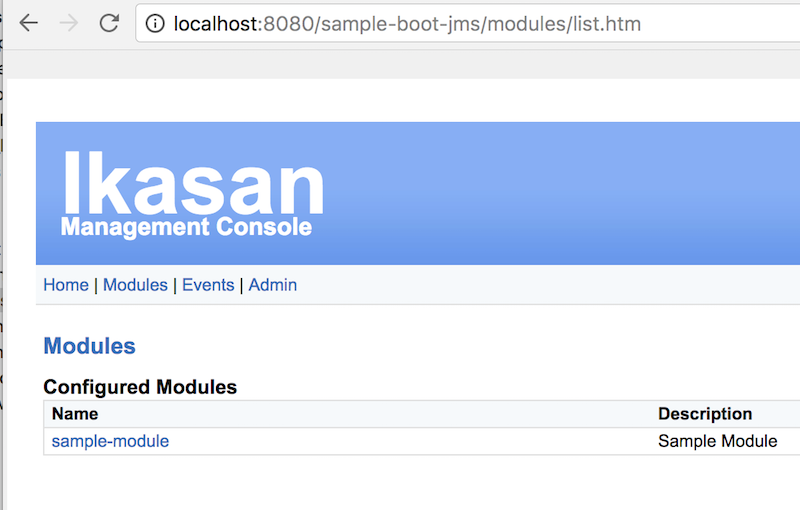
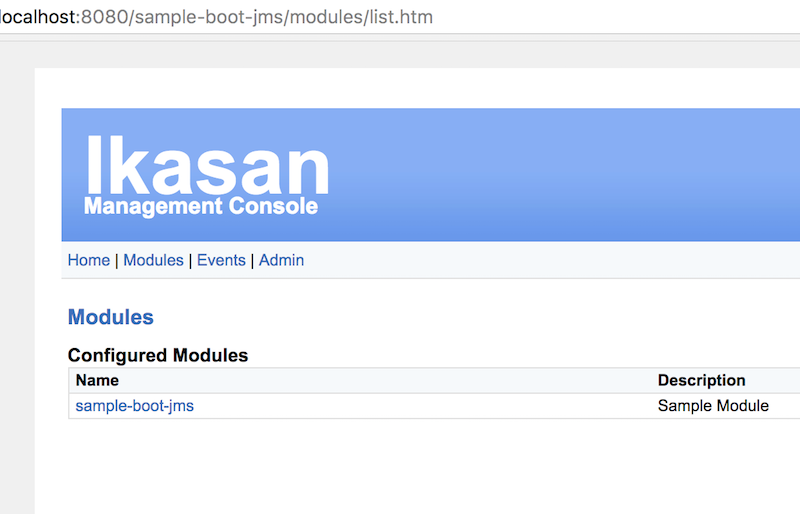
Adjusting jms sample  and Readme.md

Changed region(s): [[0.0, 0.0, 1.0, 1.0], [0.0625, 0.8529, 0.2188, 0.8824]]

diff --git a/ikasaneip/sample/spring-boot/jms/src/main/java/org/ikasan/sample/spring/boot/builderpattern/ModuleConfig.java b/ikasaneip/sample/spring-boot/jms/src/main/java/org/ikasan/sample/spring/boot/builderpattern/ModuleConfig.java
@@ -4,10 +4,8 @@ import org.apache.activemq.ActiveMQXAConnectionFactory;
 import org.ikasan.builder.BuilderFactory;
 import org.ikasan.builder.FlowBuilder;
 import org.ikasan.builder.ModuleBuilder;
-import org.ikasan.component.endpoint.jms.spring.consumer.JmsContainerConsumer;
-import org.ikasan.component.endpoint.jms.spring.producer.JmsTemplateProducer;
-import org.ikasan.error.reporting.service.ErrorReportingServiceFactoryDefaultImpl;
 import org.ikasan.spec.component.endpoint.Consumer;
+import org.ikasan.spec.component.endpoint.Producer;
 import org.ikasan.spec.error.reporting.ErrorReportingServiceFactory;
 import org.ikasan.spec.flow.Flow;
 import org.ikasan.spec.module.Module;
@@ -27,17 +25,9 @@ import javax.jms.ConnectionFactory;
         "classpath:ikasan-transaction-pointcut-jms.xml",
         "classpath:logger-conf.xml",
         "classpath:exception-conf.xml",
-        "classpath:jms-conf.xml",
-
-
 } )
 public class ModuleConfig {
 
-    @Resource
-    private JmsContainerConsumer jmsConsumer;
-
-    @Resource
-    private JmsTemplateProducer jmsProducer;
 
     @Resource
     private BuilderFactory builderFactory;
@@ -48,54 +38,34 @@ public class ModuleConfig {
     @Value("${jms.provider.url}")
     private String brokerUrl;
 
-
-    /**
-     *
-     *
-     * <bean id="sourceFlow"                   class="org.ikasan.builder.FlowFactory">
-     <property name="moduleName"         ref="moduleName" />
-     <property name="name"               value="JMS Source" />
-     <property name="description"        value="JMS Source Description" />
-     <property name="exceptionResolver"  ref="exceptionResolver" />
-     <property name="ikasanSerialiserFactory" ref="ikasanSerialiserFactory" />
-     <property name="consumer">
-     <bean class="org.ikasan.builder.FlowElementFactory">
-     <property name="name"       value="JMS Consumer"/>
-     <property name="component"  ref="jmsConsumer"/>
-     <property name="transition" ref="jmsProducerFlowElement"/>
-     </bean>
-     </property>
-     <property name="monitor" ref="monitor"/>
-     </bean>
-
-     <bean id="jmsProducerFlowElement" class="org.ikasan.builder.FlowElementFactory">
-     <property name="name"               value="JMS Producer"/>
-     <property name="component"          ref="jmsProducer" />
-     </bean>
-
-
-     * @return
-     */
     @Bean
     public Module getModule(){
 
-        ModuleBuilder mb = builderFactory.getModuleBuilder("sample-module");
+        ModuleBuilder mb = builderFactory.getModuleBuilder("sample-boot-jms");
 
-        FlowBuilder fb = mb.getFlowBuilder("flowName");
+        FlowBuilder fb = mb.getFlowBuilder("Jms Sample Flow");
 
         ConnectionFactory connectionFactory = new ActiveMQXAConnectionFactory(brokerUrl);
-        Consumer localJmsConsumer = builderFactory.getComponentBuilder().jmsConsumer()
+        Consumer jmsConsumer = builderFactory.getComponentBuilder().jmsConsumer()
                 .setConnectionFactory(connectionFactory)
                 .setDestinationJndiName("source")
                 .setAutoContentConversion(true)
+                .setConfiguredResourceId("jmsConsumer")
+                .build();
+
+
+        Producer jmsProducer = builderFactory.getComponentBuilder().jmsProducer()
+                .setConnectionFactory(connectionFactory)
+                .setDestinationJndiName("target")
+                .setConfiguredResourceId("jmsProducer")
                 .build();
 
         Flow flow = fb
-                .withDescription("flowDescription")
+                .withDescription("Flow demonstrates usage of JMS Concumer and JMS Producer")
                 .withErrorReportingServiceFactory(errorReportingServiceFactory)
-                .consumer("consumer", localJmsConsumer)     // jmsConsumer
-                .broker( "exception generating broker", new ExceptionGenerationgBroker())
-                .producer("producer", jmsProducer)
+                .consumer("JMS Consumer", jmsConsumer)
+                .broker( "Exception Generating Broker", new ExceptionGenerationgBroker())
+                .producer("JMS Producer", jmsProducer)
                 .build();
 
         Module module = mb.withDescription("Sample Module").addFlow(flow).build();

diff --git a/ikasaneip/sample/spring-boot/jms/src/test/java/org/ikasan/sample/spring/boot/builderpattern/ApplicationTest.java b/ikasaneip/sample/spring-boot/jms/src/test/java/org/ikasan/sample/spring/boot/builderpattern/ApplicationTest.java
@@ -62,6 +62,7 @@ import org.junit.Test;
 import org.junit.runner.RunWith;
 import org.springframework.jms.core.JmsTemplate;
 import org.springframework.test.annotation.DirtiesContext;
+import org.springframework.test.context.ContextConfiguration;
 import org.springframework.test.context.junit4.SpringRunner;
 import org.springframework.util.SocketUtils;
 
@@ -116,7 +117,7 @@ public class ApplicationTest
 
         // / you cannot lookup flow directly from context as only Module is injected through @Bean
         Module module = ikasanApplication.getBean(Module.class);
-        flowUUT = (Flow) module.getFlow("flowName");
+        flowUUT = (Flow) module.getFlow("Jms Sample Flow");
 
         // get hold of errorReportingService
         ErrorReportingServiceFactory errorReportingServiceFactory = ikasanApplication
@@ -131,7 +132,7 @@ public class ApplicationTest
         wiretapService = ikasanApplication.getBean("wiretapService", WiretapService.class);
 
         // add wiretap to flow
-        Trigger trigger = new Trigger(module.getName(), flowUUT.getName(), "after", "wiretapJob", "consumer",
+        Trigger trigger = new Trigger(module.getName(), flowUUT.getName(), "after", "wiretapJob", "JMS Consumer",
                 new HashMap<String, String>()
                 {{put("timeToLive", "100");}});
         JobAwareFlowEventListener wiretapListener = ikasanApplication.getBean(JobAwareFlowEventListener.class);
@@ -180,7 +181,7 @@ public class ApplicationTest
         // Prepare test data
 
         // setup custome broker to throw an exception
-        ExceptionGenerationgBroker exceptionGenerationgBroker = (ExceptionGenerationgBroker) flowUUT.getFlowElement("exception generating broker").getFlowComponent();
+        ExceptionGenerationgBroker exceptionGenerationgBroker = (ExceptionGenerationgBroker) flowUUT.getFlowElement("Exception Generating Broker").getFlowComponent();
         exceptionGenerationgBroker.setShouldThrowExclusionException(true);
 
         // Perform Test
@@ -214,7 +215,7 @@ public class ApplicationTest
         // Prepare test data
 
         // setup custome broker to throw an exception
-        ExceptionGenerationgBroker exceptionGenerationgBroker = (ExceptionGenerationgBroker) flowUUT.getFlowElement("exception generating broker").getFlowComponent();
+        ExceptionGenerationgBroker exceptionGenerationgBroker = (ExceptionGenerationgBroker) flowUUT.getFlowElement("Exception Generating Broker").getFlowComponent();
         exceptionGenerationgBroker.setShouldThrowRecoveryException(true);
 
         // Perform Test
@@ -252,7 +253,7 @@ public class ApplicationTest
         // Prepare test data
 
         // setup custome broker to throw an exception
-        ExceptionGenerationgBroker exceptionGenerationgBroker = (ExceptionGenerationgBroker) flowUUT.getFlowElement("exception generating broker").getFlowComponent();
+        ExceptionGenerationgBroker exceptionGenerationgBroker = (ExceptionGenerationgBroker) flowUUT.getFlowElement("Exception Generating Broker").getFlowComponent();
         exceptionGenerationgBroker.setShouldThrowStoppedInErrorException(true);
 
         // Perform Test

diff --git a/ikasaneip/sample/spring-boot/jms/README.md b/ikasaneip/sample/spring-boot/jms/README.md
@@ -1,11 +1,20 @@
 # sample-spring-boot-jms
 
-Sample spring-boot-jms project provides self contained example of Ikasan integration module. The sample is build as fat-jar containing all dependencies. The sample bootstraps as a spring-boot web application with embeded tomcat web-container. 
+Sample spring-boot-jms project provides self contained example of Ikasan integration module. 
+The sample is build as fat-jar containing all dependencies and bootstraps as a spring-boot web application with embedded tomcat web-container. 
+As majority of core ikasan services depend on persistent store this sample starts up with embedded in memory H2 database.
+
+sample-spring-boot-jms provides example of integration module using JMS, in order to keep the sample self contained an embedded ActiveMQ broker is used. The module contains single flow with following components:
+* JMS Consumer (subscribing to 'source' queue )
+* Exception Generating Broker 
+* JMS Producer (sends messages to 'target' queue)
 
 
 ## How to build from source
 
-```mvn clean install```
+```
+mvn clean install
+```
 
 
 ## How to startup
@@ -40,20 +49,22 @@ You can now access the basic web interface http://localhost:8080/sample-boot-jms
 ## How to navigate the web console
 
 
-![Login](../../../developer/docs/sample-images/sample-login.png) 
+* Open Login Page ![Login](../../../developer/docs/sample-images/sample-login.png) 
 
-Login using admin/admin as username and password
+* Login using admin/admin as username and password ![Home](../../../developer/docs/sample-images/home-page.png) 
 
-![Home](../../../developer/docs/sample-images/home-page.png) 
+* Click on Modules ![Modules](../../../developer/docs/sample-images/modules.png) 
 
-Click on Modules
+* Click on sample-module ![sample-boot-jms](../../../developer/docs/sample-images/sample-boot-jms-module.png) 
 
-![Modules](../../../developer/docs/sample-images/modules.png) 
+* Click on JMS Sample Flow ![JMS Sample Flow](../../../developer/docs/sample-images/jms-sample-flow.png) 
 
-Click on sample-module
+* Click on JMS consumer ![JMS Consumer Components](../../../developer/docs/sample-images/jms-consumer.png) 
 
-![Sample Module](../../../developer/docs/sample-images/sample-module.png) 
+* Click on JMS Configuration ![JMS Configuration Create](../../../developer/docs/sample-images/jms-consumer-config-create.png) 
 
-Click on flowName
-
-![Sample Flow Components](../../../developer/docs/sample-images/flowName-components.png) 
+* Click Create
+ 
+* The configuration screen allows you to chage the JMS consumer configuration, like:
+** change jms destination name
+** provide JNDI properties
